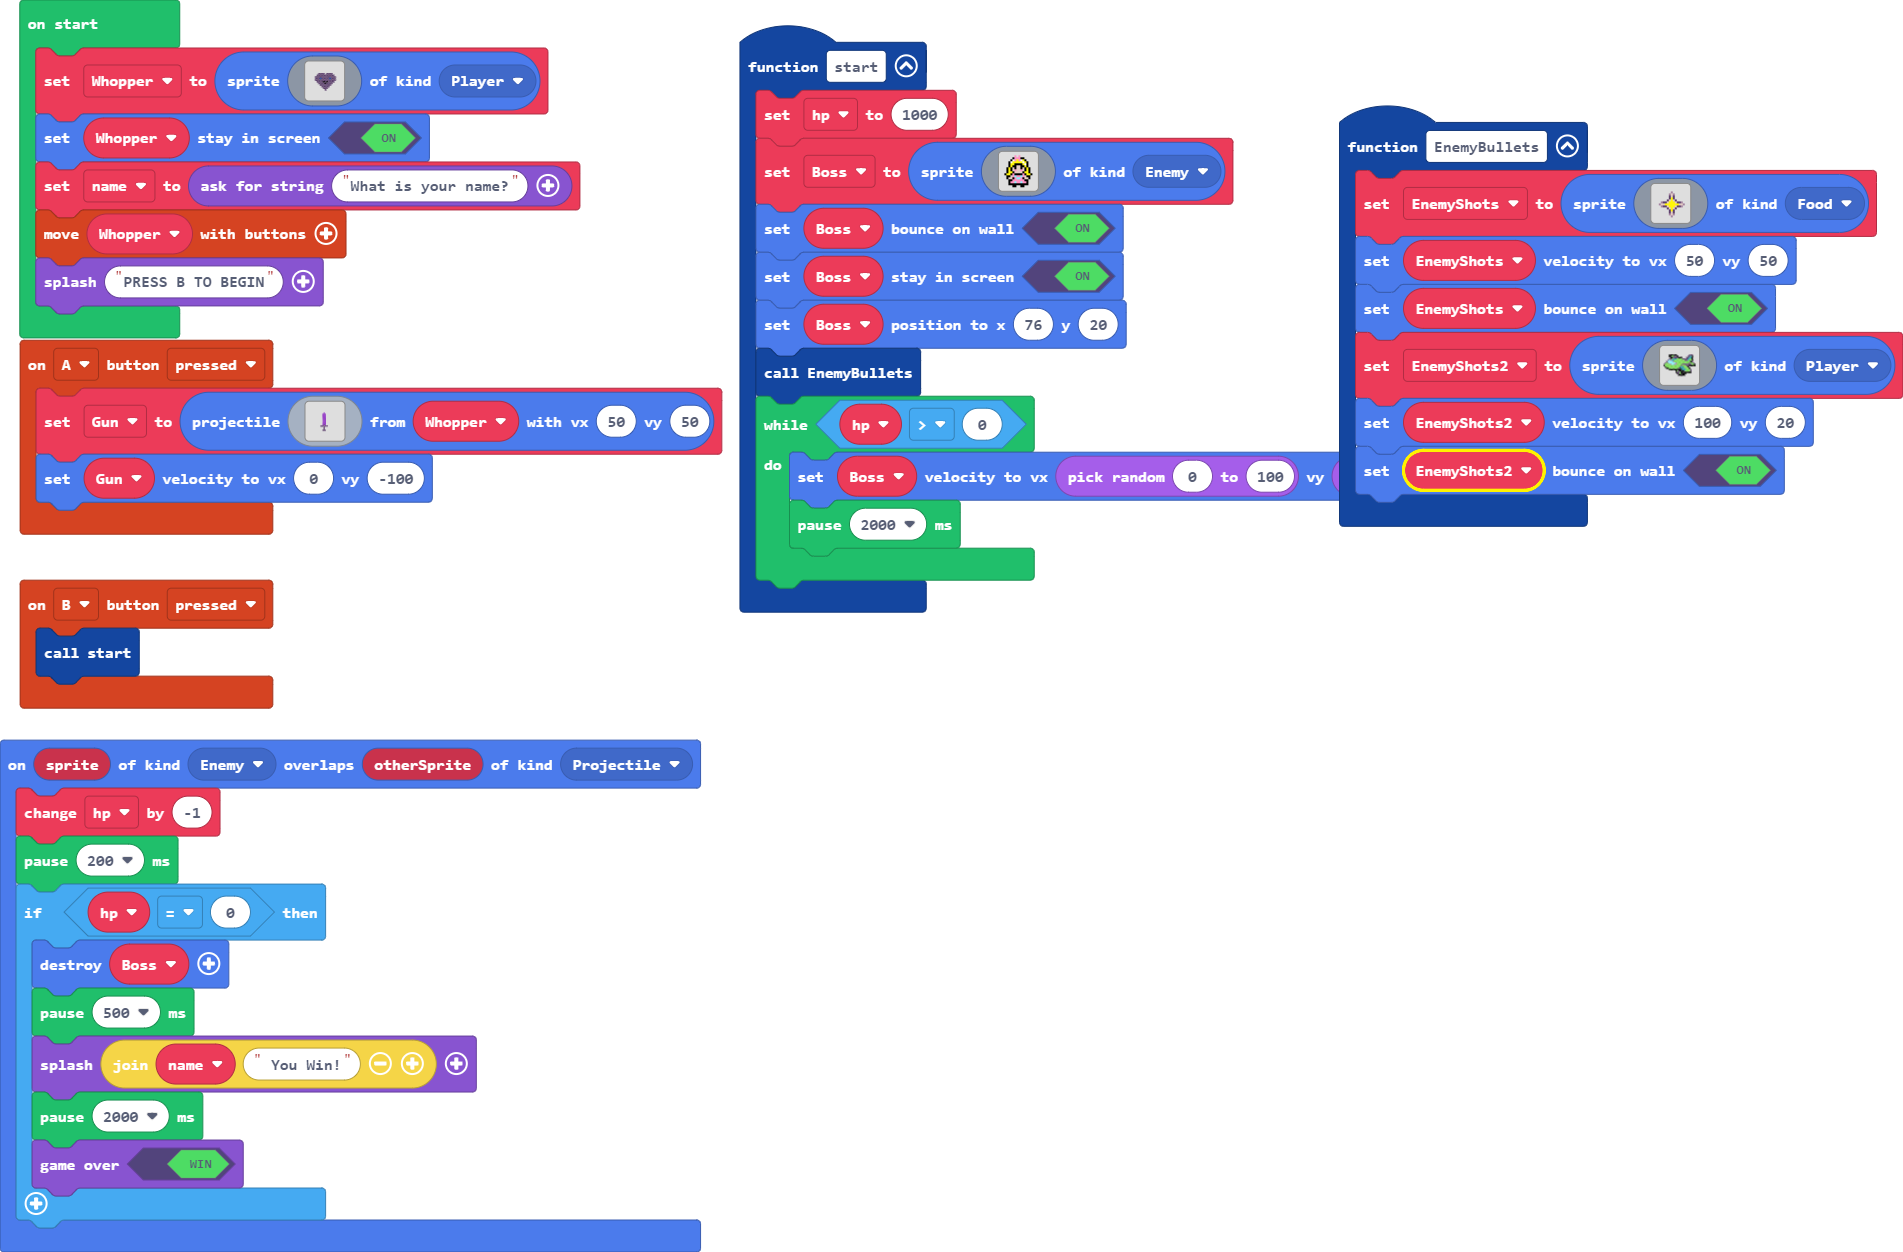
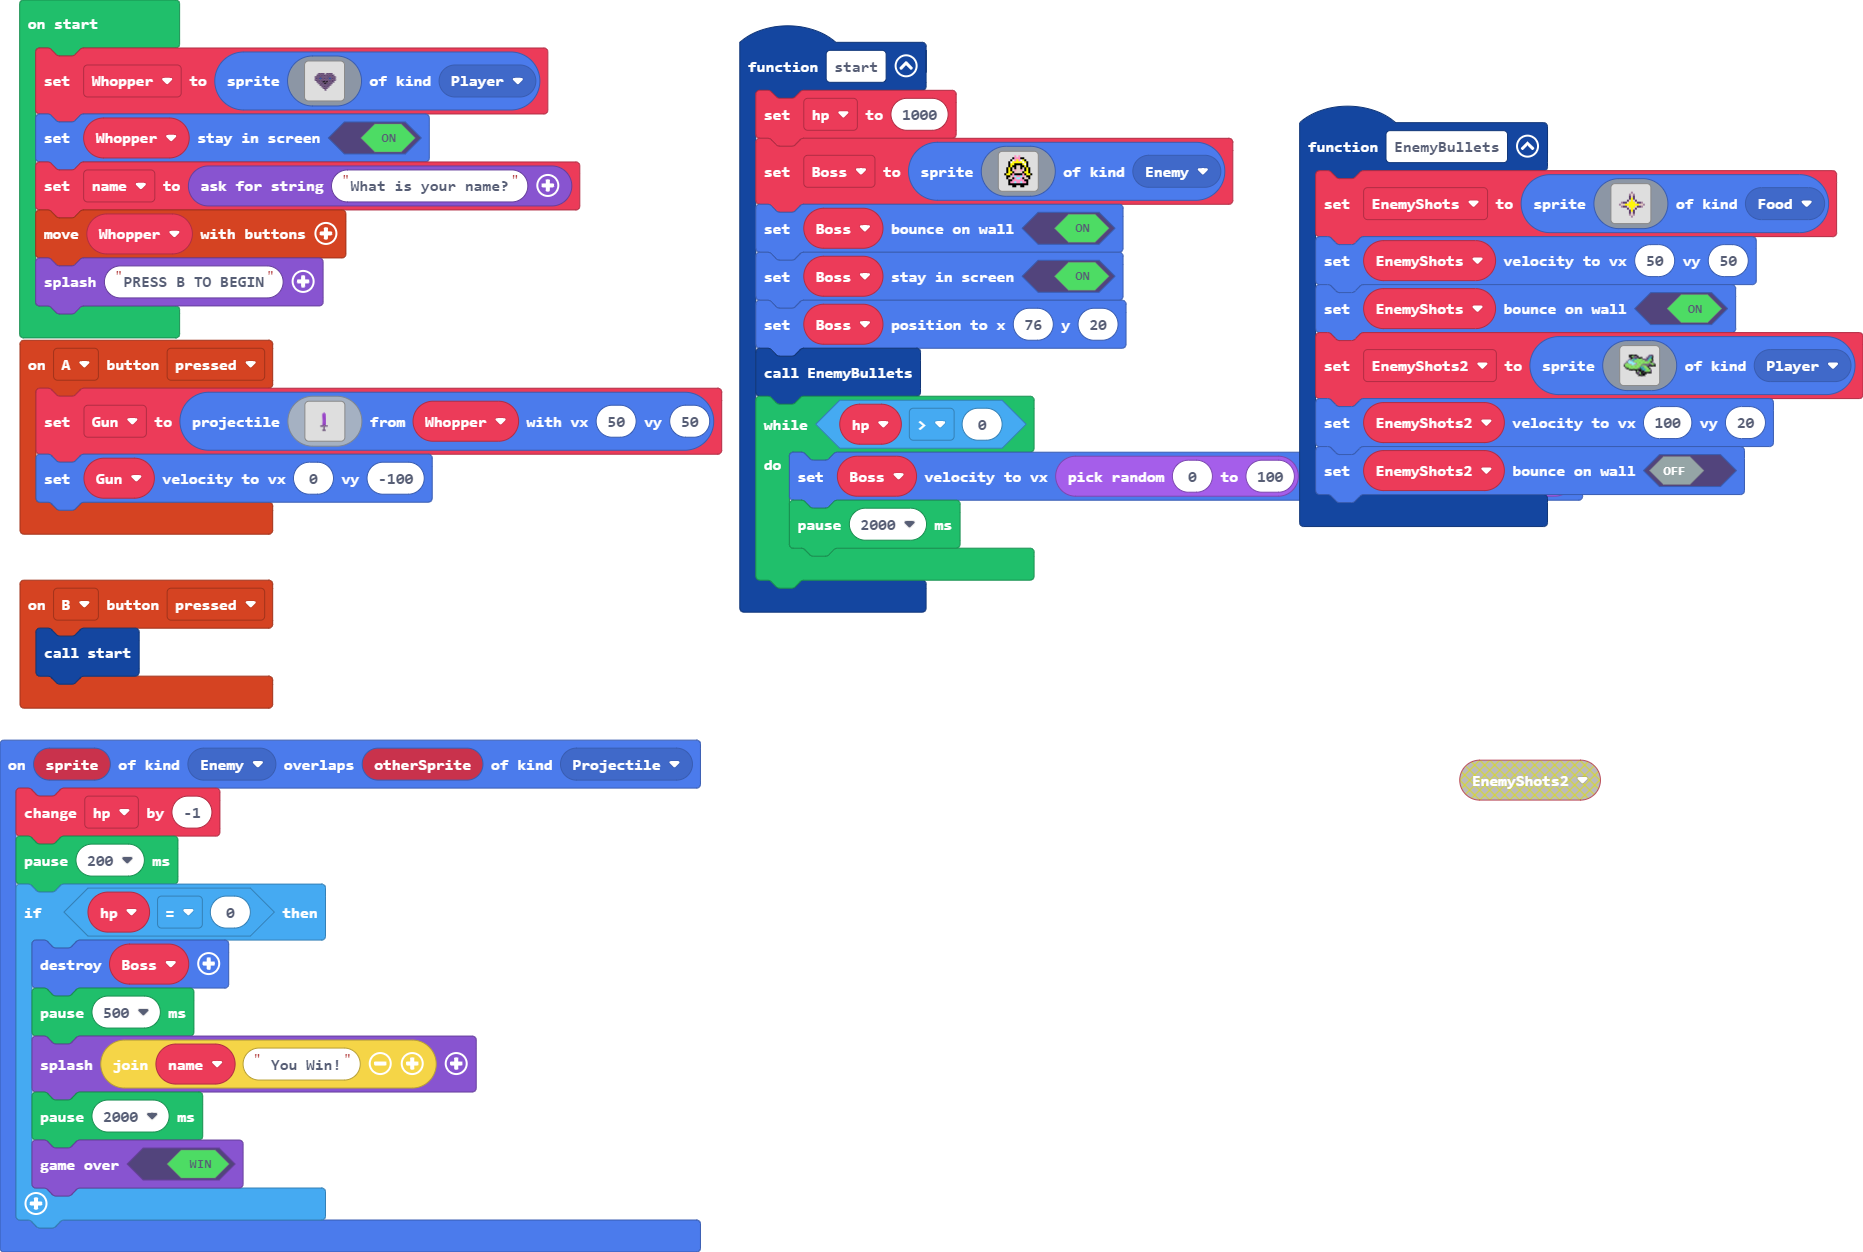
Update main.blocks, main.ts

diff --git a/main.ts b/main.ts
@@ -87,7 +87,7 @@ function EnemyBullets () {
         ...........fffff........
         `, SpriteKind.Player)
     EnemyShots2.setVelocity(100, 20)
-    EnemyShots2.setBounceOnWall(true)
+    EnemyShots2.setBounceOnWall(false)
 }
 function start () {
     hp = 1000
